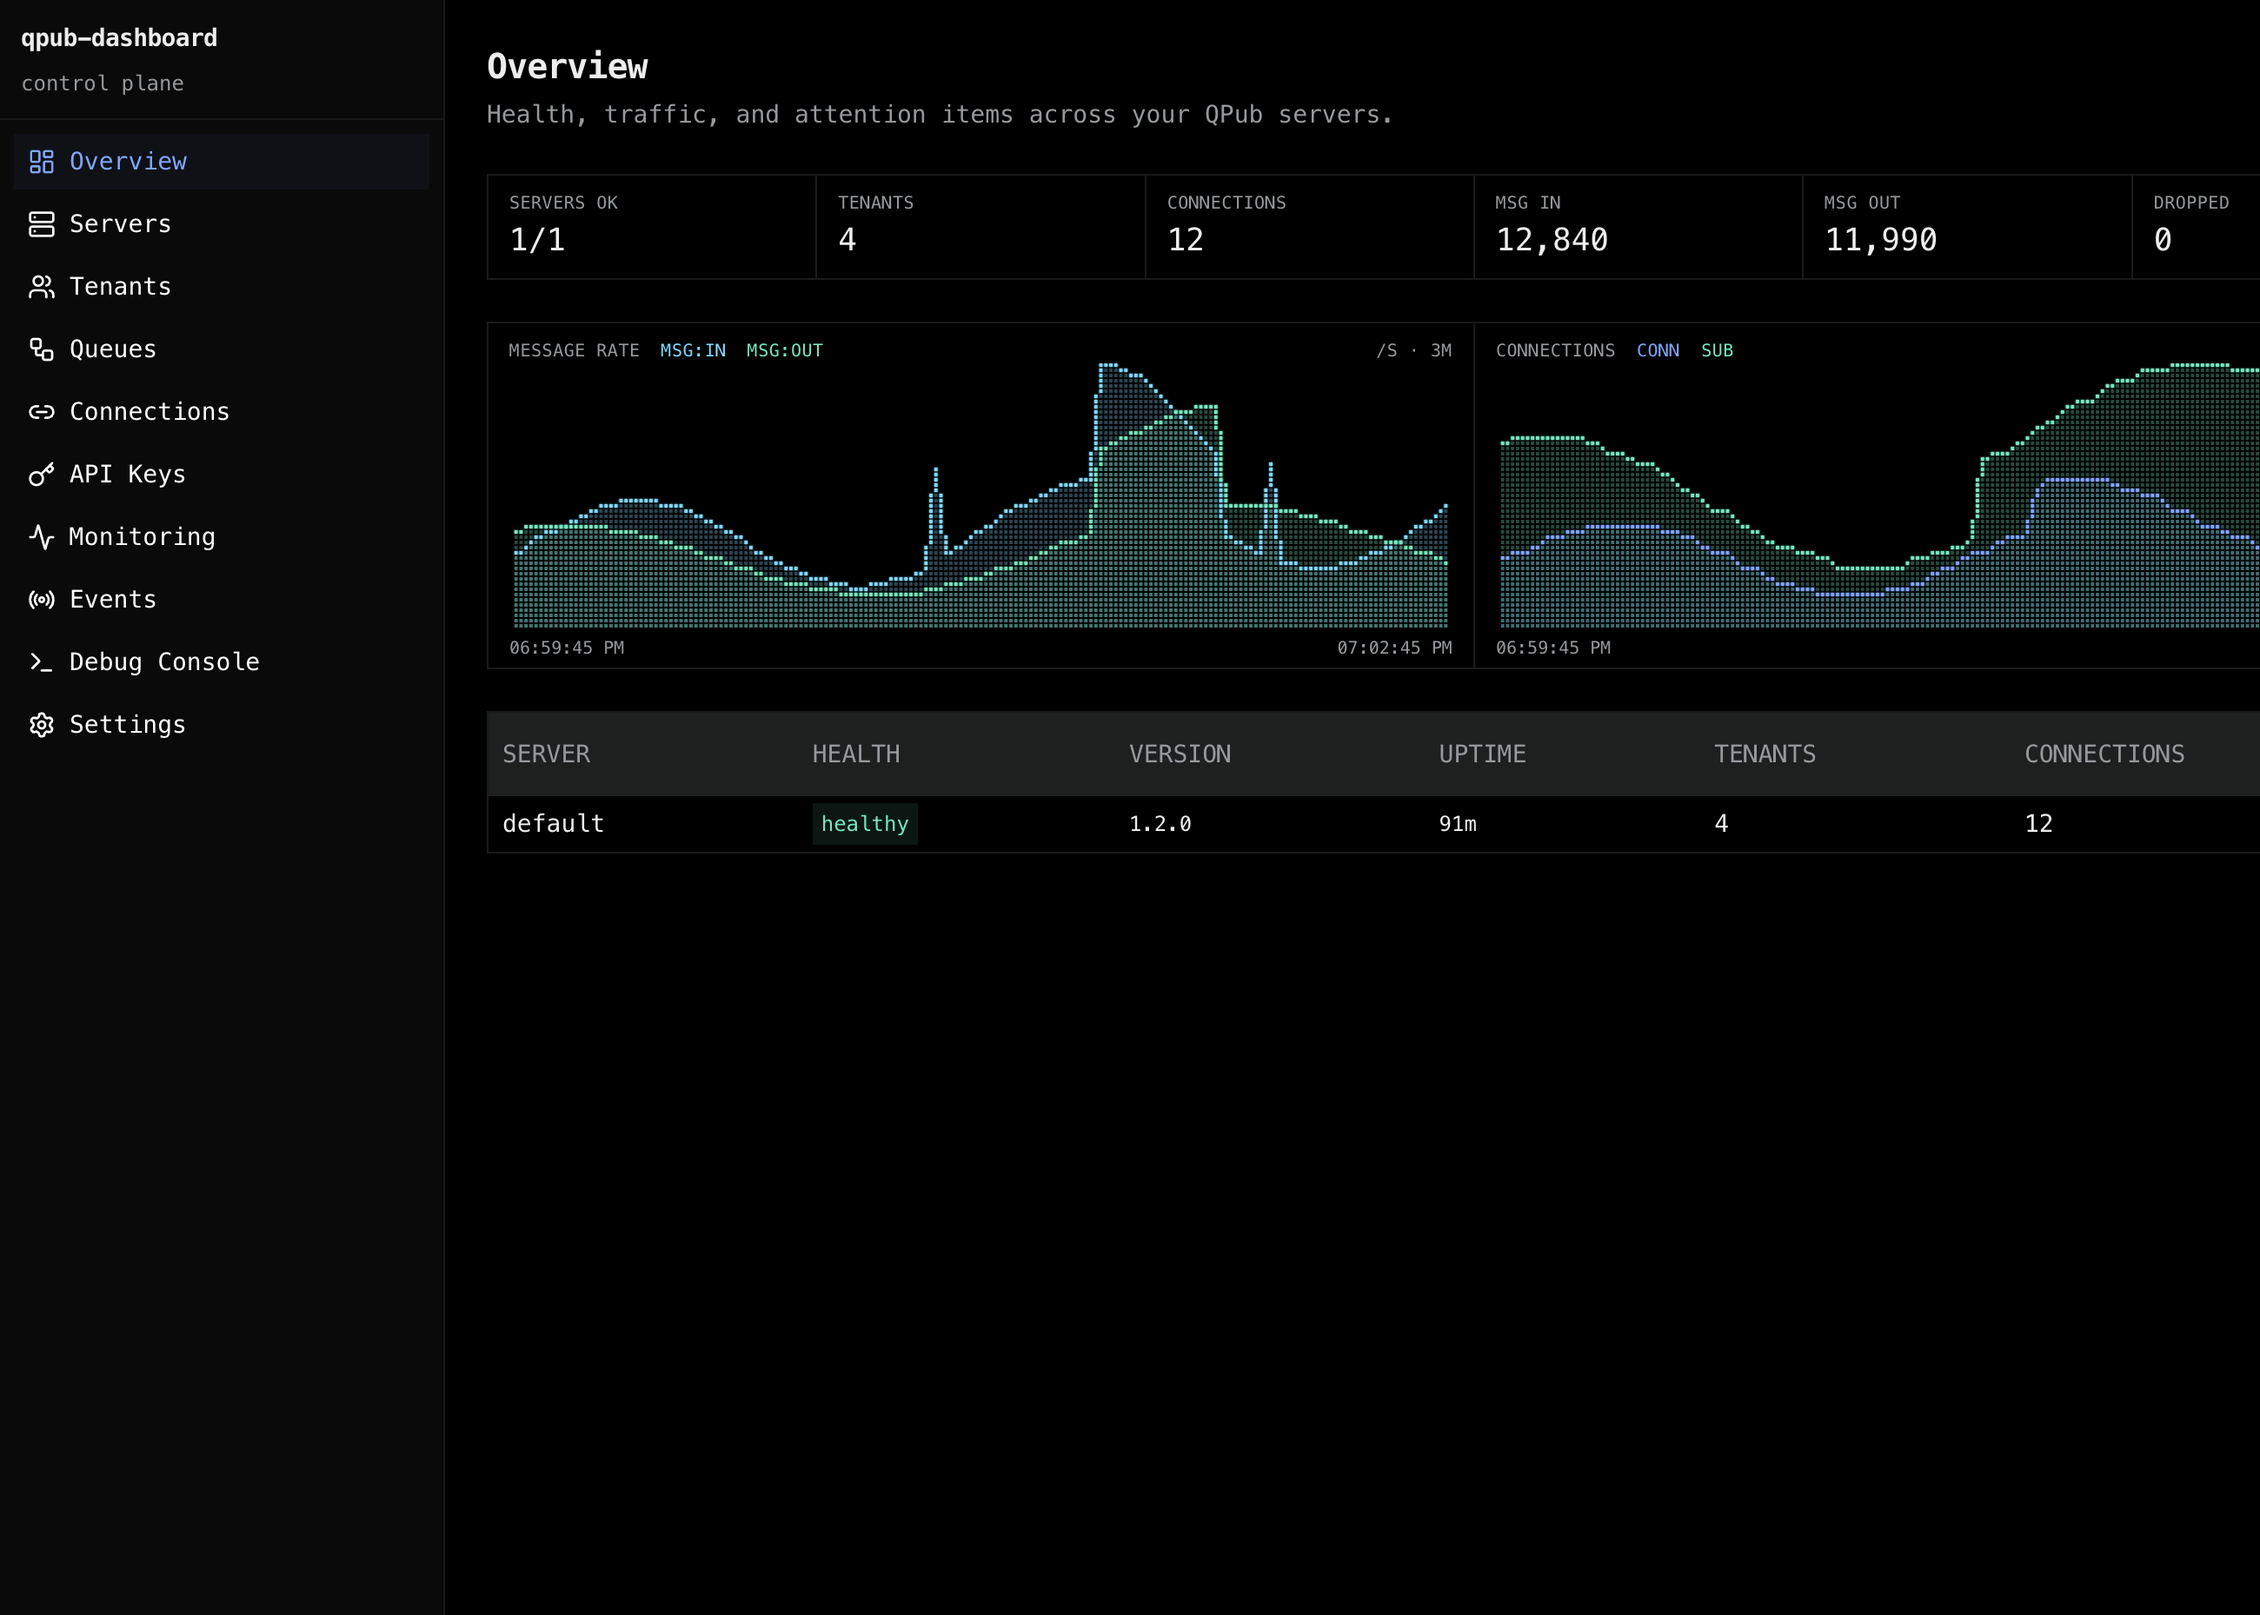
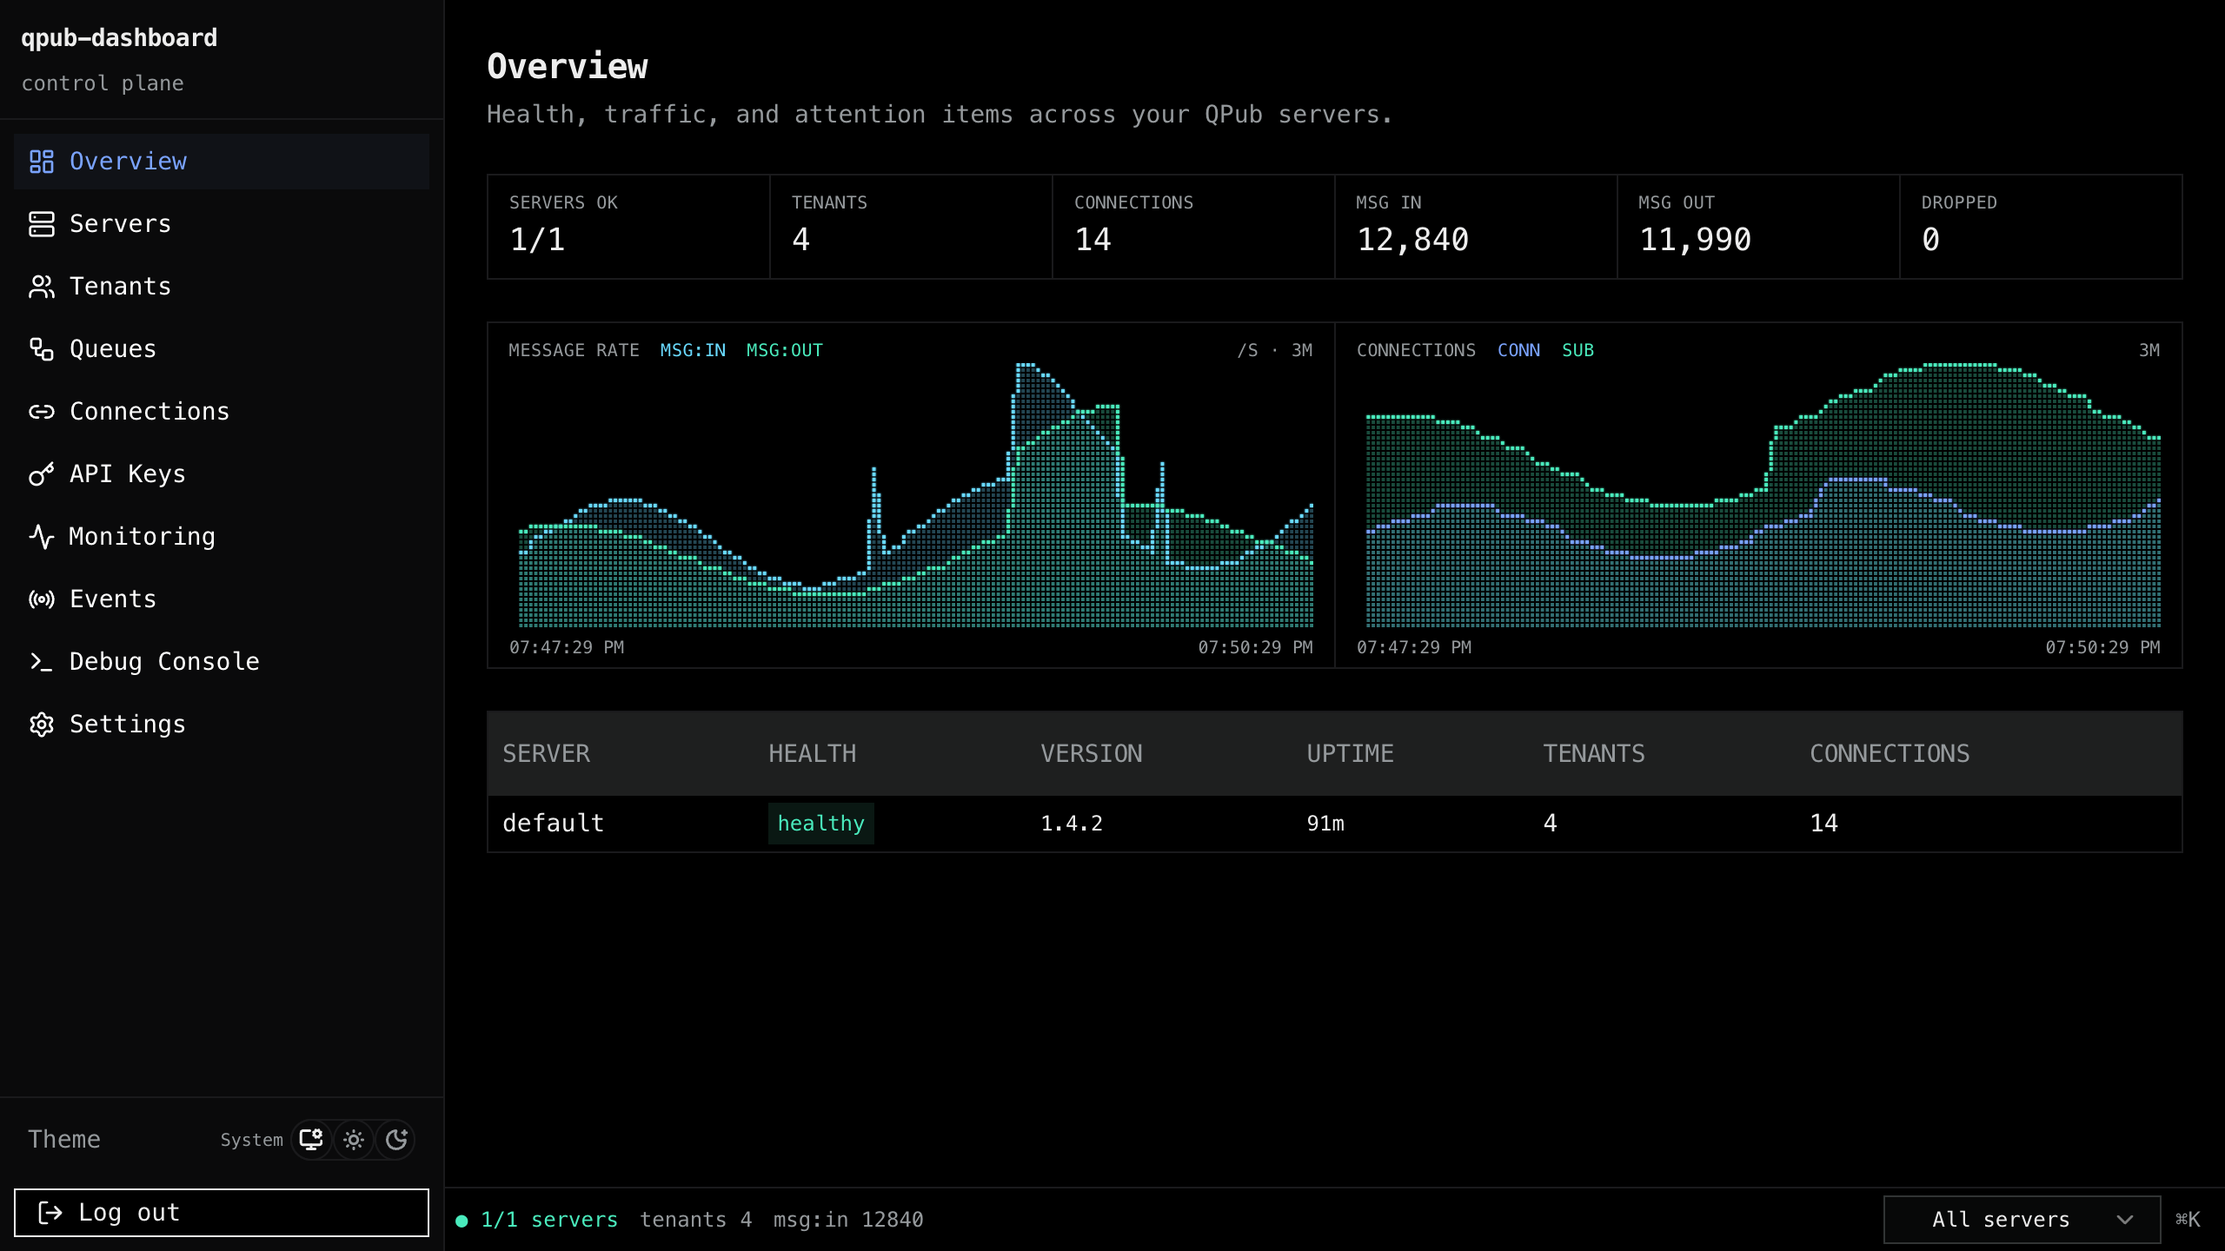
refactor: remove demo metric history functionality and clean up related code
- Deleted the seedDemoMetricHistory function and its associated logic from useMetricHistory and store.ts.
- Removed demoLocked state management to streamline metric recording process.
- Updated overview image for improved clarity.

diff --git a/lib/metrics/store.ts b/lib/metrics/store.ts
@@ -1,18 +1,14 @@
 import {
   appendSnapshot,
   createHistoryState,
-  emptySeries,
   type MetricHistoryState,
   type MetricSnapshot,
-  type SeriesPoint,
 } from "@/lib/metrics/history";
 
 type Listener = () => void;
 
 let state: MetricHistoryState = createHistoryState();
 const listeners = new Set<Listener>();
-/** When true, live polls do not overwrite seeded demo traces. */
-let demoLocked = false;
 
 function notify() {
   for (const listener of listeners) listener();
@@ -28,61 +24,8 @@ export function subscribeMetricHistory(listener: Listener): () => void {
 }
 
 export function recordMetricSnapshot(snapshot: MetricSnapshot): void {
-  if (demoLocked) return;
   const next = appendSnapshot(state, snapshot);
   if (next === state) return;
   state = next;
-  notify();
-}
-
-/** Fill the rolling window with synthetic rates/levels for screenshots / demos. */
-export function seedDemoMetricHistory(): void {
-  demoLocked = true;
-  const now = Date.now();
-  const n = 90;
-  const step = 2000;
-  const series = emptySeries();
-
-  const push = (key: keyof typeof series, t: number, v: number) => {
-    series[key].push([t, Math.max(0, v)] as SeriesPoint);
-  };
-
-  for (let i = 0; i < n; i++) {
-    const t = now - (n - 1 - i) * step;
-    const phase = i / 7;
-    const wave = (Math.sin(phase) + 1) * 0.5;
-    const wave2 = (Math.sin(phase * 0.7 + 1.2) + 1) * 0.5;
-    const ramp = i / n;
-    const burst = i > 55 && i < 68 ? 1.8 : 1;
-    const spike = i === 40 || i === 72 ? 2.4 : 1;
-
-    push("msg:in", t, (12 + wave * 48 + ramp * 20) * burst * spike);
-    push("msg:out", t, (9 + wave2 * 40 + ramp * 16) * burst);
-    push(
-      "msg:drop",
-      t,
-      i % 23 === 0 ? 4 + wave * 8 : i % 11 === 0 ? 1.5 : 0.05,
-    );
-    push("bw:in", t, (180 + wave * 520 + ramp * 200) * burst);
-    push("bw:out", t, (140 + wave2 * 440 + ramp * 160) * burst);
-    push("conn", t, Math.round(4 + wave * 10 + (i > 50 ? 6 : 0)));
-    push("sub", t, Math.round(8 + wave2 * 18 + (i > 45 ? 10 : 0)));
-    push("chan", t, Math.round(3 + wave * 5 + ramp * 4));
-  }
-
-  state = {
-    lastCollectedAt: new Date(now).toISOString(),
-    lastStats: {
-      conn: series.conn.at(-1)?.[1] ?? 0,
-      sub: series.sub.at(-1)?.[1] ?? 0,
-      chan: series.chan.at(-1)?.[1] ?? 0,
-      "msg:in": 0,
-      "msg:out": 0,
-      "msg:drop": 0,
-      "bw:in": 0,
-      "bw:out": 0,
-    },
-    series,
-  };
   notify();
 }

diff --git a/lib/hooks/useMetricHistory.ts b/lib/hooks/useMetricHistory.ts
@@ -5,7 +5,6 @@ import { useOverview } from "@/lib/hooks/useOverview";
 import {
   getMetricHistory,
   recordMetricSnapshot,
-  seedDemoMetricHistory,
   subscribeMetricHistory,
 } from "@/lib/metrics/store";
 import type { MetricHistoryState } from "@/lib/metrics/history";
@@ -13,13 +12,6 @@ import type { MetricHistoryState } from "@/lib/metrics/history";
 /** Mount once in DashboardShell — appends overview polls into the session ring buffer. */
 export function useMetricHistoryRecorder(): void {
   const { data } = useOverview();
-
-  useEffect(() => {
-    if (process.env.NODE_ENV === "development") {
-      (window as Window & { __seedLedDemo?: () => void }).__seedLedDemo =
-        seedDemoMetricHistory;
-    }
-  }, []);
 
   useEffect(() => {
     if (!data) return;
